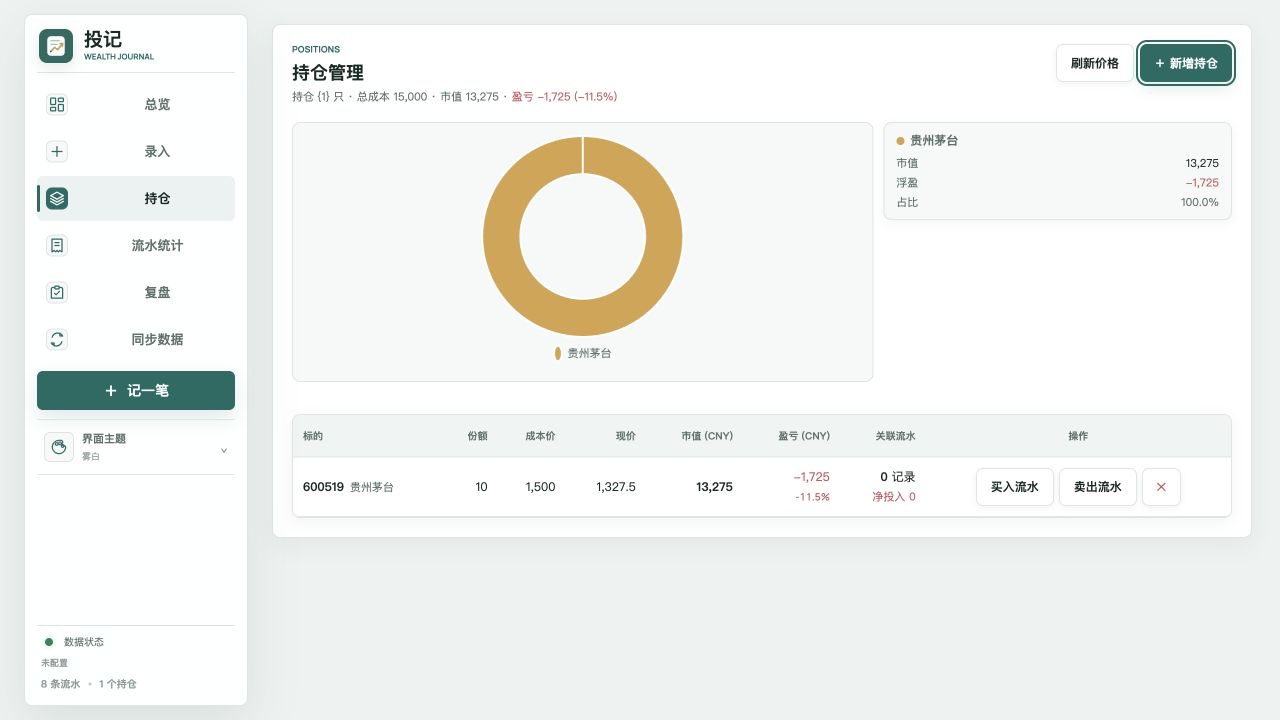
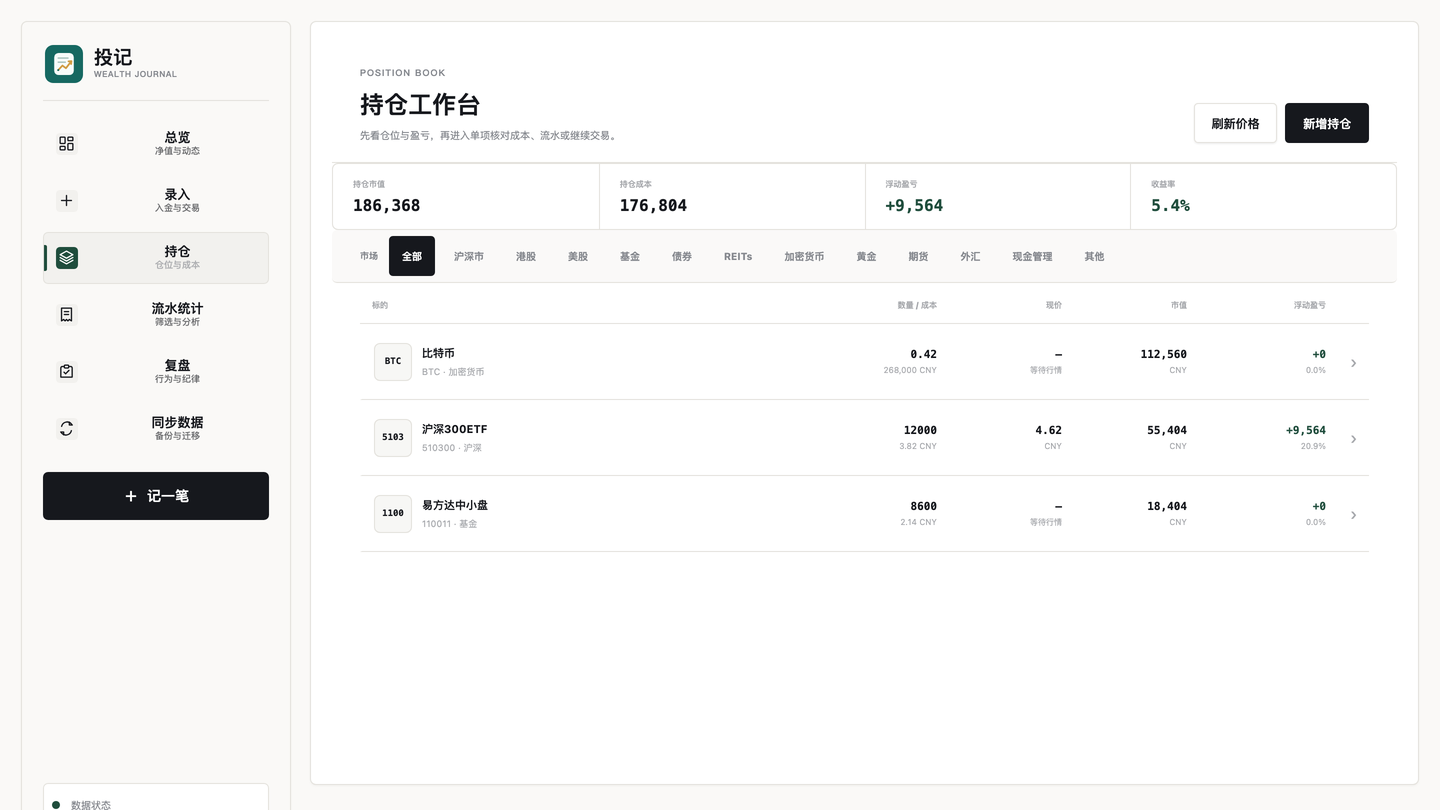
docs: refresh the README screenshots
They were taken on 2026-07-20 and have outlived three redesigns since —
the old rail, the green statement card, the retired language toggle and
a 资产总览 title that no longer exists. All three are recaptured from the
GitHub Pages demo on v2026.09.09-7 with invented figures, which is what
the section above them already promises.

Screenshots are not part of the deploy payload, so no release.

diff --git a/README.md b/README.md
@@ -16,13 +16,13 @@
 
 ### 桌面端
 
-![投记桌面端资产总览](screenshots/desktop-dashboard.png)
+![投记桌面端资产快照：净值、资金走势与资产配置](screenshots/desktop-dashboard.png)
 
 ### 移动端与持仓
 
 | 移动端总览 | 持仓管理 |
 |---|---|
-| <img src="screenshots/mobile-dashboard.png" alt="投记移动端资产总览" width="360"> | <img src="screenshots/positions.png" alt="投记桌面端持仓管理" width="760"> |
+| <img src="screenshots/mobile-dashboard.png" alt="投记移动端资产快照" width="360"> | <img src="screenshots/positions.png" alt="投记桌面端持仓工作台" width="760"> |
 
 ---
 
